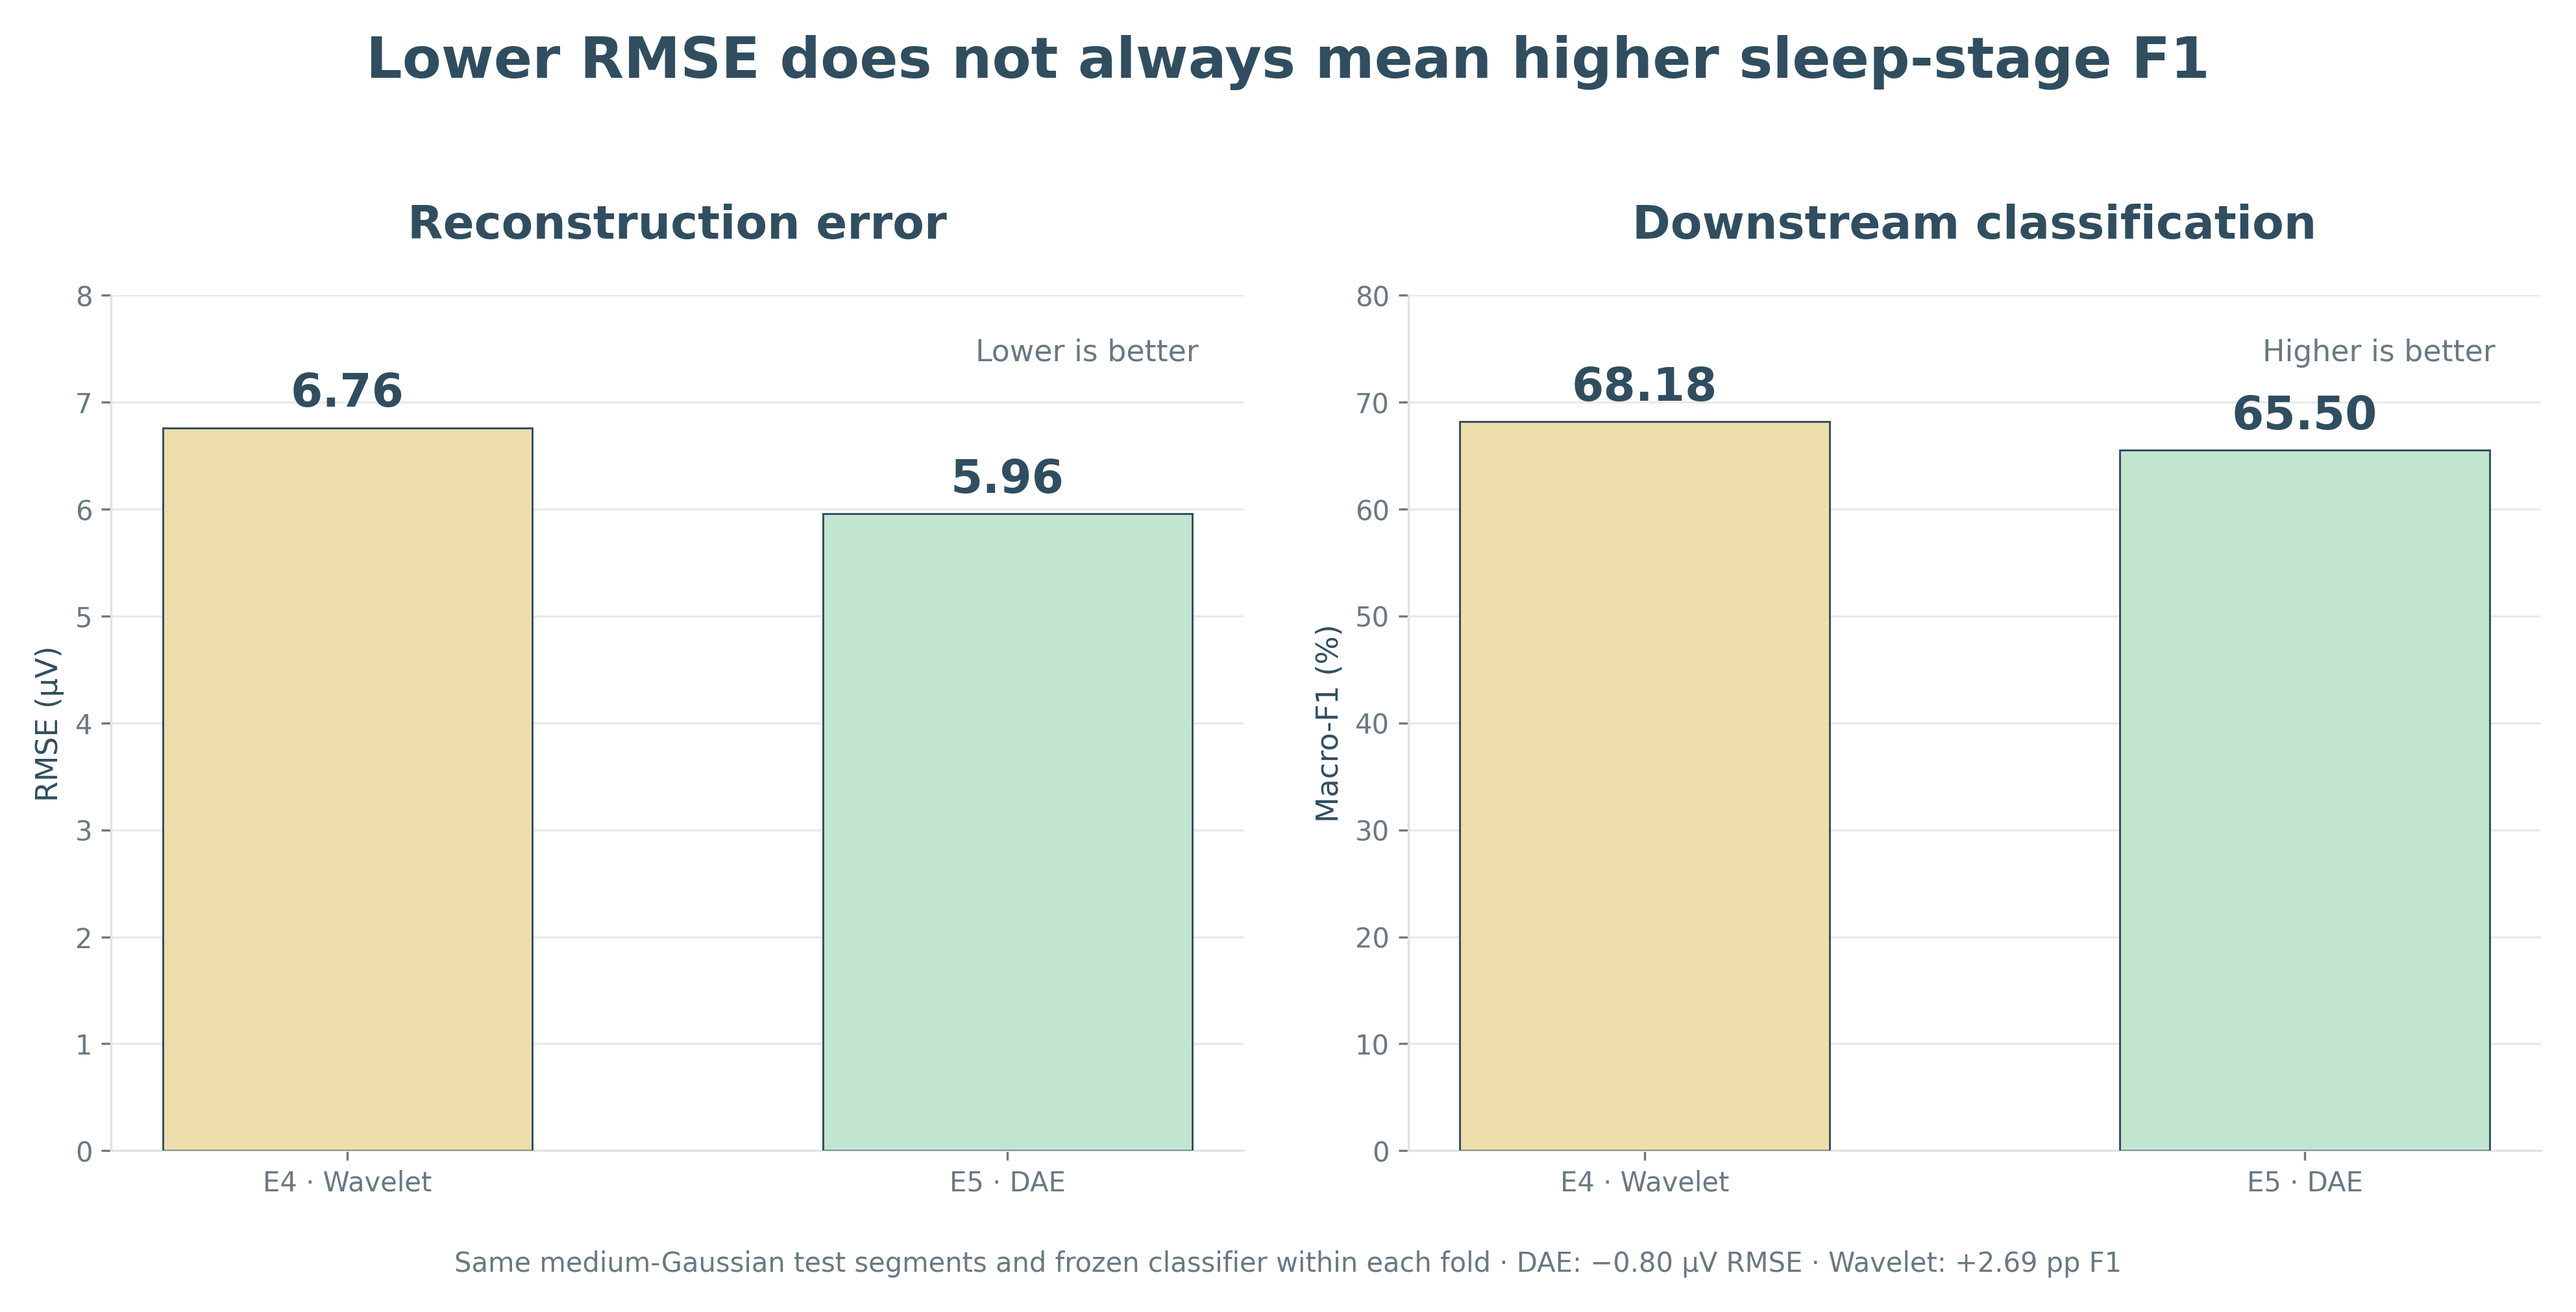
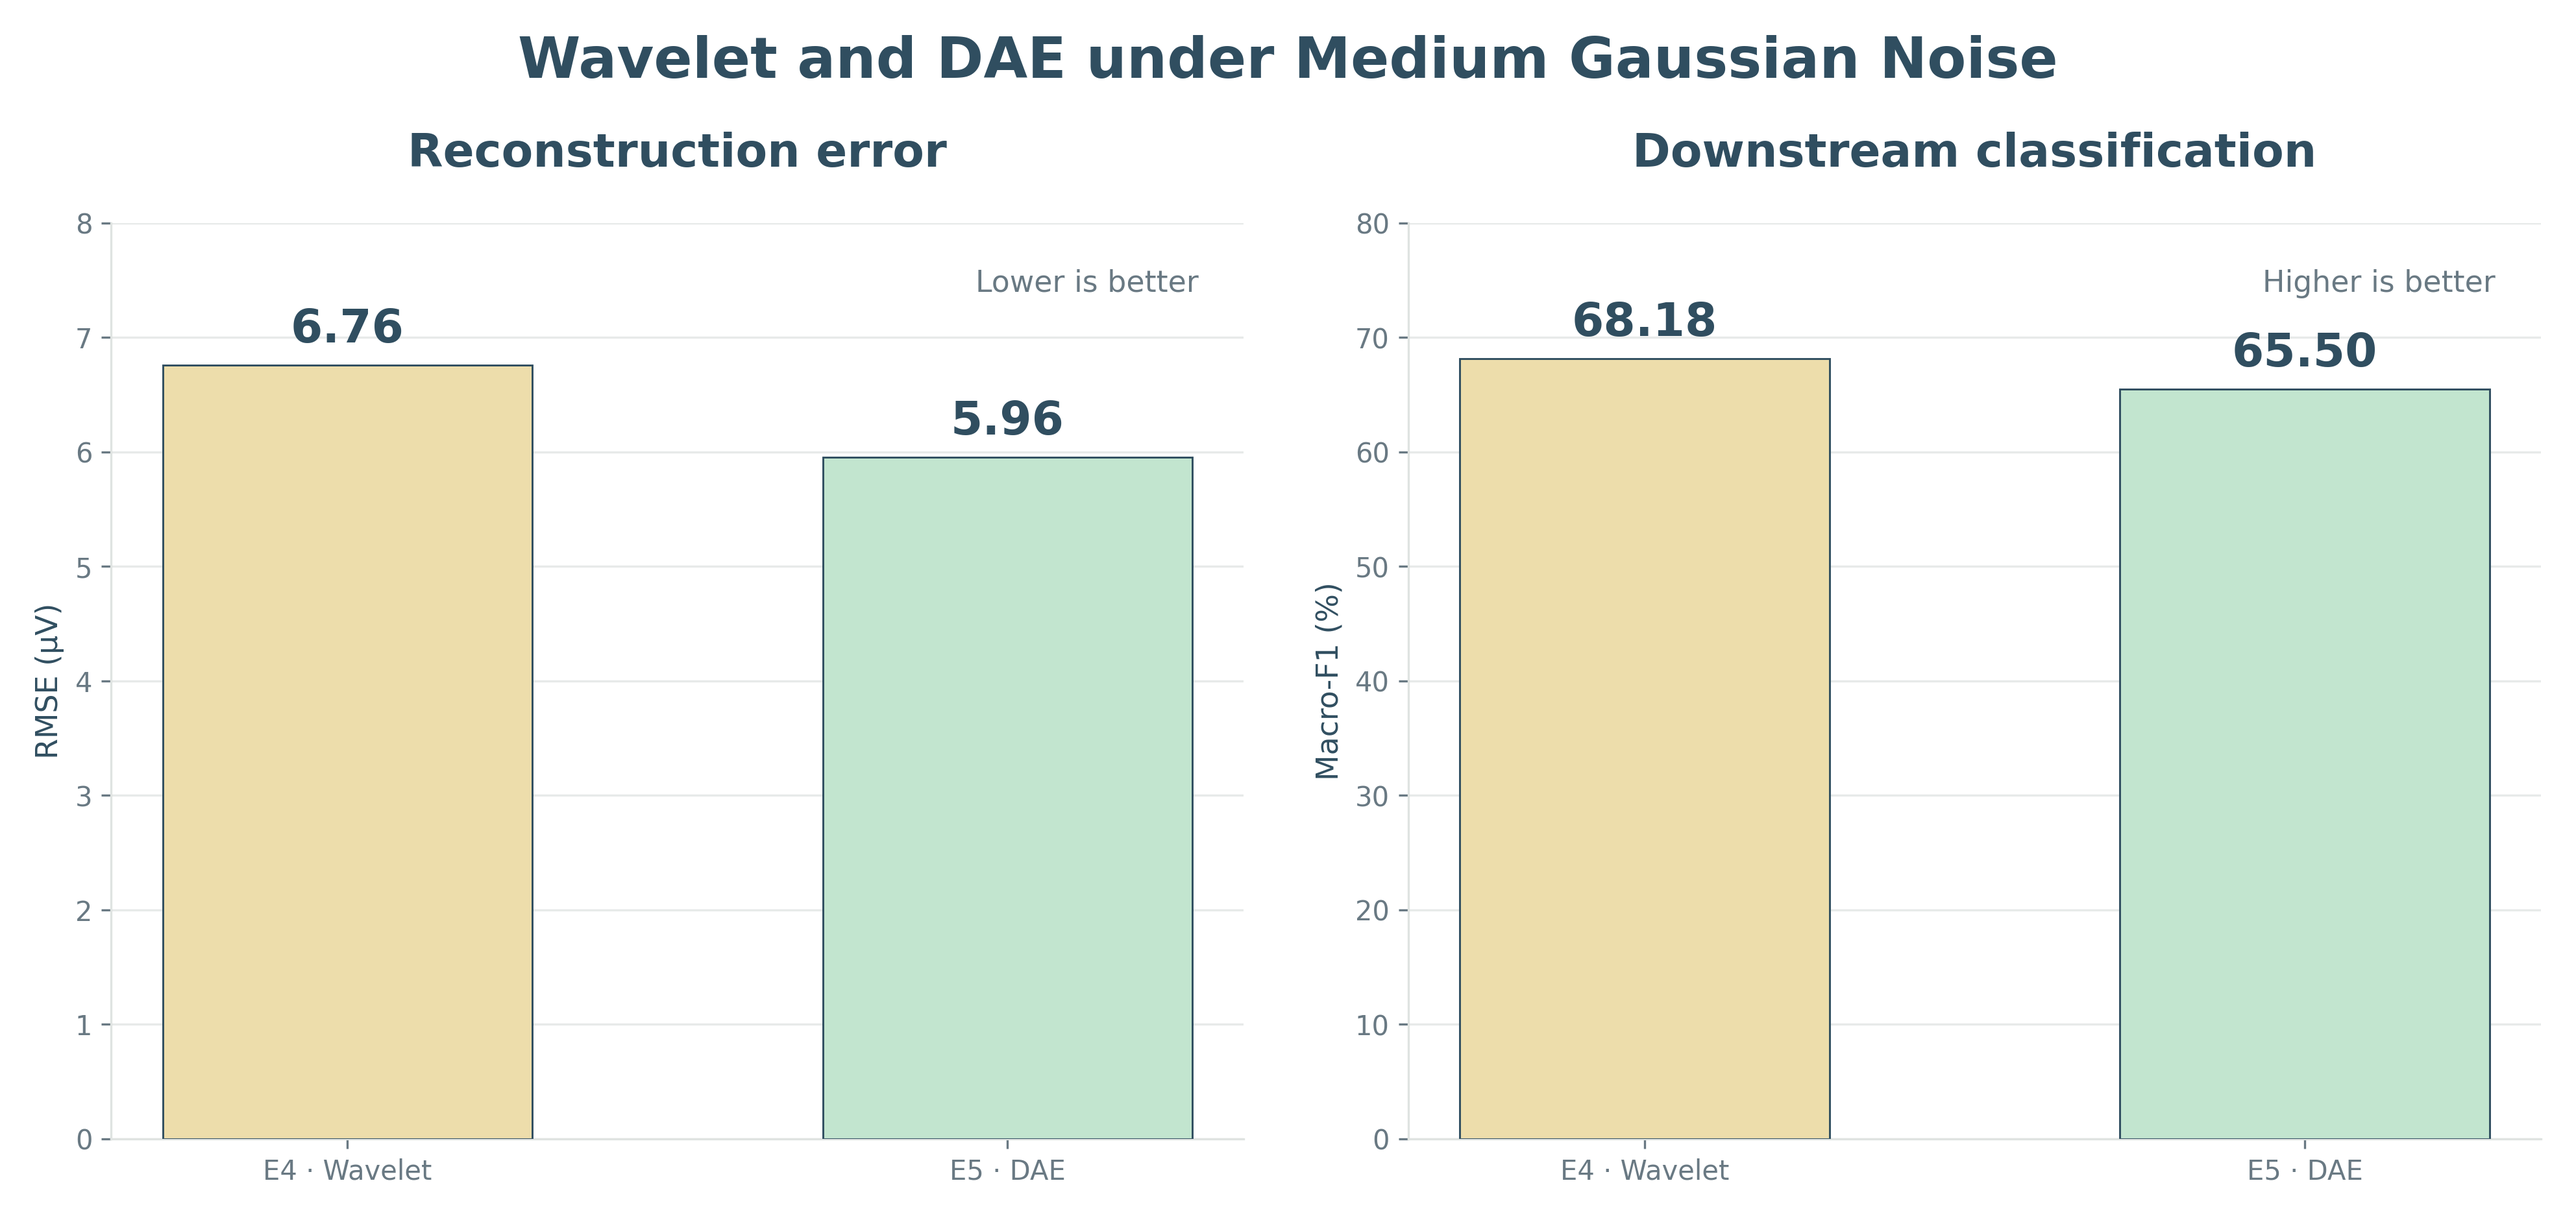
Simplify the wavelet and DAE comparison figure for the report

diff --git a/figures/plots/E4_E5_rmse_vs_macro_f1.py b/figures/plots/E4_E5_rmse_vs_macro_f1.py
@@ -1,6 +1,5 @@
 """Compare reconstruction error and classification under medium Gaussian noise."""
 import _bootstrap
-import numpy as np
 import pandas as pd
 import matplotlib.pyplot as plt
 from plot_style import *
@@ -20,12 +19,8 @@ def main():
         ax.set_ylabel(ylab);ax.set_title(title,fontsize=17,pad=21)
         ax.text(.96,.95,caption,transform=ax.transAxes,ha='right',va='top',color=SUBTLE,fontsize=11)
         tidy(ax)
-    fig.suptitle('Lower RMSE does not always mean higher sleep-stage F1',fontsize=21,fontweight='bold',y=1.04)
-    rmse_gain = d.at['E4', 'rmse_uv'] - d.at['E5', 'rmse_uv']
-    f1_gain = d.at['E4', 'macro_f1'] - d.at['E5', 'macro_f1']
-    fig.text(.5,.015,f'Same medium-Gaussian test segments and frozen classifier within each fold · DAE: −{rmse_gain:.2f} μV RMSE · Wavelet: +{f1_gain:.2f} pp F1',
-             ha='center',fontsize=10,color=SUBTLE)
-    fig.tight_layout(w_pad=2.4,rect=(0,.05,1,1))
+    fig.suptitle('Wavelet and DAE under Medium Gaussian Noise', fontsize=21, fontweight='bold')
+    fig.tight_layout(w_pad=2.4)
     save(fig,'E4_E5_rmse_vs_macro_f1')
 
 if __name__=='__main__':main()
